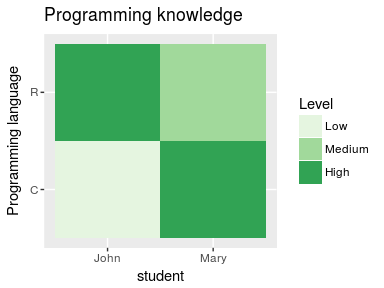
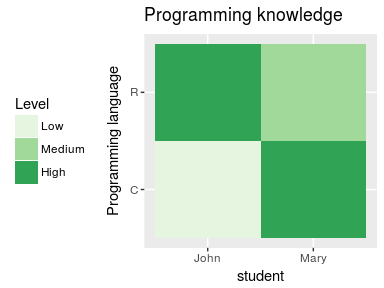
Uncomment '+' sign in theme example

diff --git a/ggplot2_introduction.md b/ggplot2_introduction.md
@@ -1,6 +1,13 @@
-# Introduction to `ggplot2`
-Carla Giner Delgado  
-January 12, 2018  
+---
+title: "Introduction to `ggplot2`"
+author: "Carla Giner Delgado"
+date: "January 12, 2018"
+output:
+  html_document:
+    keep_md : true
+    toc: true
+bibliography: bibliography.bib
+---
 
 
 
@@ -182,7 +189,7 @@ There are two coordinates systems available:
 # Scatterplot
 ggplot(data = programming_level) +
     geom_point(mapping = aes(x = student, y = knowledge, shape = programming_language)) + 
-    scale_shape_manual(values = c(3, 8))+
+    scale_shape_manual(values = c(3, 8)) +
     scale_y_continuous(breaks = c(1, 2, 3), labels = c("Low", "Medium", "High"), name = "Programming level") +
     labs(shape = "Language", title = "Programming knowledge", x = "Student name") +
     coord_polar()
@@ -227,7 +234,7 @@ Themes control how the elements of the plot are represented (excluding the data 
 # Scatterplot
 ggplot(data = programming_level) +
     geom_point(mapping = aes(x = student, y = knowledge, shape = programming_language)) + 
-    scale_shape_manual(values = c(3, 8))+
+    scale_shape_manual(values = c(3, 8)) +
     scale_y_continuous(breaks = c(1, 2, 3), labels = c("Low", "Medium", "High"), name = "Programming level") +
     labs(shape = "Language", title = "Programming knowledge", x = "Student name") +
     theme_classic(base_size = 16)
@@ -236,16 +243,8 @@ ggplot(data = programming_level) +
 ggplot(data = programming_level) +
     geom_tile(mapping = aes(x = student, y = programming_language, fill = as.factor(knowledge))) +
     scale_fill_brewer(type = "seq", palette = "Greens", name  = "Level", labels = c("Low", "Medium", "High")) +
-    labs(y = "Programming language", title = "Programming knowledge") #+ 
+    labs(y = "Programming language", title = "Programming knowledge") + 
     theme(legend.position = "left")
-```
-
-```
-## List of 1
-##  $ legend.position: chr "left"
-##  - attr(*, "class")= chr [1:2] "theme" "gg"
-##  - attr(*, "complete")= logi FALSE
-##  - attr(*, "validate")= logi TRUE
 ```
 
 ![](ggplot2_introduction_files/figure-html/themes-1.png)![](ggplot2_introduction_files/figure-html/themes-2.png)
